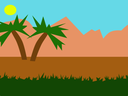
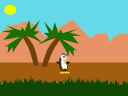
Creando un nuevo actor DesplazamientoHorizontal y sustituyendo el ejemplo desplazamiento para que use este actor.

diff --git a/pilas/fondos.py b/pilas/fondos.py
@@ -188,33 +188,71 @@ class Capa():
         self.y = y
         self.velocidad = velocidad
 
-    def dibujar_tiled_horizontal(self, painter, ancho, alto, camara_x, camara_y):
-        dx = (self.x + camara_x)
-        dy = (self.y + camara_y)
+    def dibujar_tiled_horizontal(self, painter, ancho, alto):
+        dx = self.x% self.imagen.ancho()
+        dy = 0
         painter.drawTiledPixmap(0, self.y, ancho, self.imagen.alto(), self.imagen._imagen,
-                                dx % self.imagen.ancho(), dy % self.imagen.alto())
-        pass
+                                abs(dx) % self.imagen.ancho(), dy % self.imagen.alto())
+
+    def mover_horizontal(self, dx):
+        self.x += dx * self.velocidad
 
 class DesplazamientoHorizontal(Fondo):
+    """
+    Representa un fondo con desplazamiento horizontal y repetido.
+
+    Este tipo de fondo es ideal para animaciones y juegos donde
+    el fondo se puede repetir una y otra vez. Por ejemplo en un juego
+    de carreras horizontal o de naves.
+
+    El fondo inicialmente no tiene apariencia, pero se pueden agregar
+    capas, cada una con su propia velocidad y posición.
+
+    Por ejemplo, si queremos simular un fondo con 3 capas, una lejana
+    con estrellas, y luego dos capas mas cercanas con arboles y arbustos
+    podemos escribir:
+
+        >>> fondo = pilas.fondos.DesplazamientoHorizontal()
+        >>> fondo.agregar("estrellas.png", 0, 0, 0)
+        >>> fondo.agregar("arboles_lejanos.png", 0, 0, 1)
+        >>> fondo.agregar("arbustos_cercanos.png", 0, 0, 2)
+
+    El primer argumento del método agregar es la imagen que se tiene
+    que repetir horizontalmente. Luego viene la posición 'x' e 'y'. Por
+    último el valor numérico es la velocidad de movimiento que tendría
+    esa capa.
+
+    Un valor grande de velocidad significa que la capa se moverá
+    mas rápido que otras ante un cambio de posición en la cámara. Por
+    ejemplo, la capa que tiene velocidad 2 significa que se moverá 2 pixels
+    hacia la izquierda cada vez que la cámara mire 2 pixel hacia la derecha.
+
+    Si la capa tiene velocidad 0 significa que permanecerá inamovible al movimiento
+    de la cámara.
+    """
 
     def __init__(self):
         self.capas = []
         pilas.actores.Actor.__init__(self, "invisible.png")
+        self.escena.mueve_camara.conectar(self.cuando_mueve_camara)
         self.z = 1000
 
     def dibujar(self, painter):
         painter.save()
-
-        camara_x = pilas.mundo.motor.camara_x
-        camara_y = -pilas.mundo.motor.camara_y
-
         ancho, alto = pilas.mundo.motor.obtener_area()
 
         for capa in self.capas:
-            capa.dibujar_tiled_horizontal(painter, ancho, alto, camara_x, camara_y)
+            capa.dibujar_tiled_horizontal(painter, ancho, alto)
 
         painter.restore()
 
-    def agregar(self, imagen, x, y, velocidad):
+    def agregar(self, imagen, x=0, y=0, velocidad=0):
         nueva_capa = Capa(imagen, x, y, velocidad)
         self.capas.append(nueva_capa)
+
+    def cuando_mueve_camara(self, evento):
+        for capa in self.capas:
+            capa.mover_horizontal(evento.dx)
+
+    def esta_fuera_de_la_pantalla(self):
+        return False

diff --git a/pilas/ejemplos/ejemplos/fondos/desplazamiento.py b/pilas/ejemplos/ejemplos/fondos/desplazamiento.py
@@ -1,23 +1,19 @@
 import pilas
 pilas.iniciar(usar_motor='qtgl')
 
-cielo = pilas.actores.Actor("cielo.png")
-montes = pilas.actores.Actor("montes.png")
-arboles = pilas.actores.Actor("arboles.png")
-pasto = pilas.actores.Actor("pasto.png", y=-179)
+fondo = pilas.fondos.DesplazamientoHorizontal()
 
-cielo.z = 10
-montes.z = 5
-arboles.z = 0
-pasto.z = -10
+fondo.agregar("cielo.png", velocidad=0)
+fondo.agregar("montes.png", y=100, velocidad=0.5)
+fondo.agregar("arboles.png", y=100, velocidad=0.9)
+fondo.agregar("pasto.png", y=375, velocidad=2)
 
-fondo = pilas.fondos.Desplazamiento()
+p = pilas.actores.Pingu(y=-130)
 
-fondo.agregar(cielo, 0)
-fondo.agregar(montes, 0.5)
-fondo.agregar(arboles, 0.9)
-fondo.agregar(pasto, 2)
+def cambiar_posicion_camara():
+    pilas.escena_actual().camara.x = [p.x], 0.1
+    return True
 
-pilas.escena_actual().camara.x = [200], 10
-
+pilas.mundo.agregar_tarea(1/10.0, cambiar_posicion_camara)
+pilas.avisar("Utiliza el teclado para mover al personaje.")
 pilas.ejecutar()
